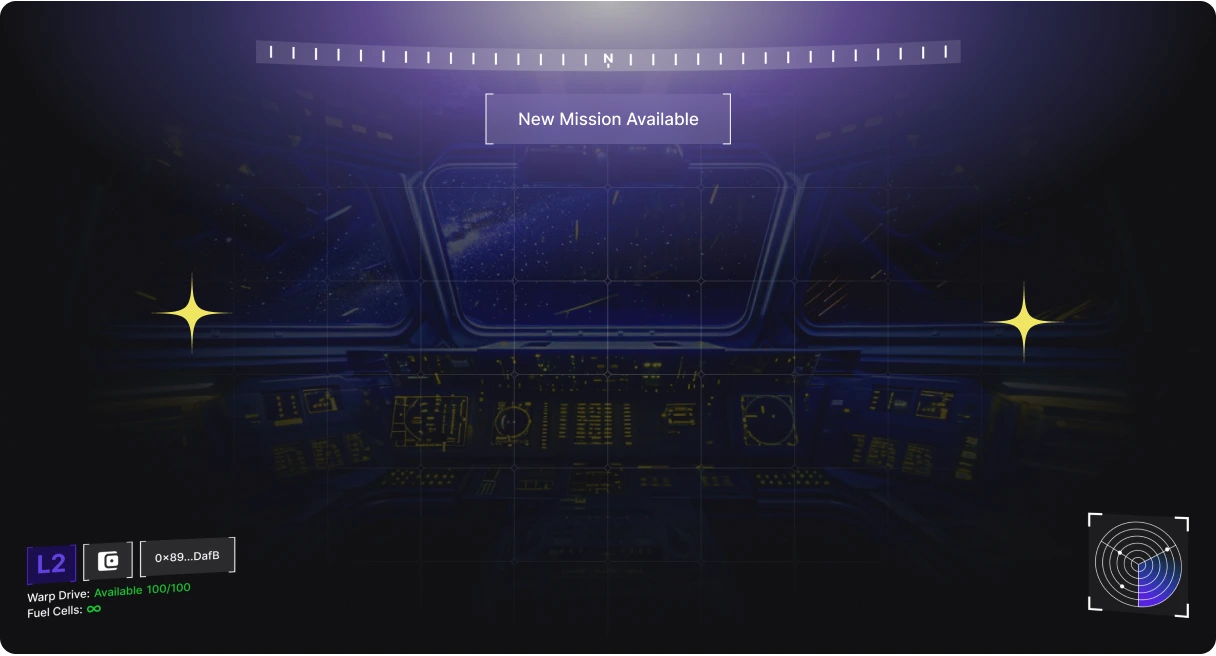
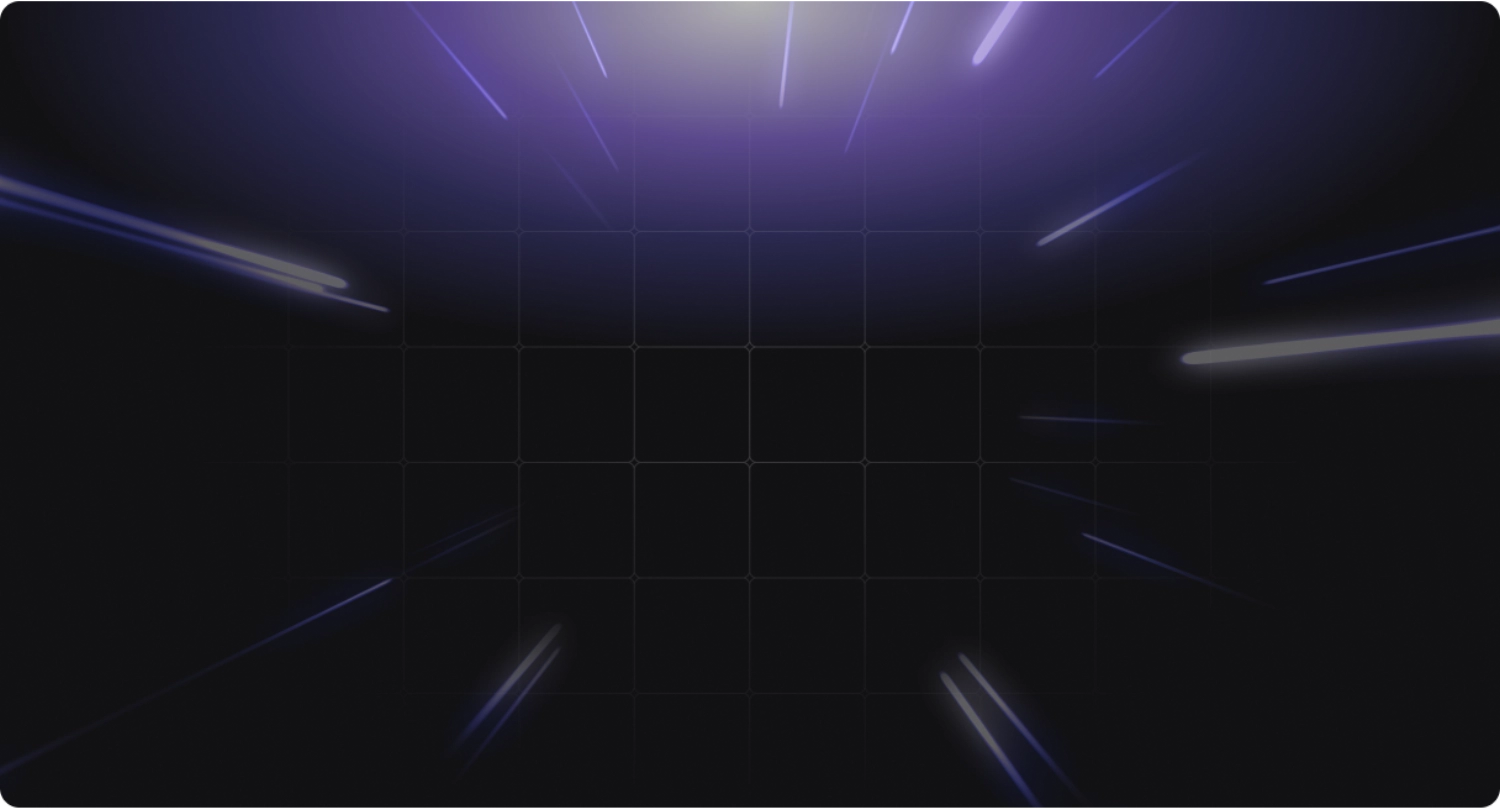
Updated star finders hero image and used separate svgs for inner components

diff --git a/src/modules/StarFinders/Hero.scss b/src/modules/StarFinders/Hero.scss
@@ -13,89 +13,125 @@
 
     .wrapper {
       background-color: #1d1c37;
-      background-image: url("/assets/star-finders/hero.webp"), radial-gradient(circle at top, #a7a5af 0%, #947df0 15%,  #1d1c37 50%);
+      background-image: url("/assets/star-finders/hero.webp"),
+        radial-gradient(circle at top, #a7a5af 0%, #947df0 15%, #1d1c37 50%);
       background-repeat: no-repeat;
       background-size: cover;
       background-position: center;
       border-radius: 16px;
       overflow: hidden;
       width: 100%;
-      aspect-ratio: 15 / 8;
+      // aspect-ratio: 15 / 8;
 
       .component {
-        padding: 210px 0 152px;
+        padding: 48px 32px 32px;
         margin: auto;
 
-        .content {
-          backdrop-filter: blur(10px);
-          padding: 78px 52px 56px;
-          width: calc(68% + 5px);
+        div.mission {
+          width: max-content;
           margin: auto;
+        }
+
+        .content {
+          margin: auto;
+          margin-top: 92px;
+          width: max-content;
+          position: relative;
           max-width: 100%;
-          border: 1px solid rgba(colors.$yellow-500, 0.07);
-          border-radius: 8px;
 
-          i.shield {
-            position: absolute;
-            top: 0;
-            left: 50%;
-            transform: translateY(-50%) translateX(-50%);
-          }
+          & > div {
+            backdrop-filter: blur(10px);
+            padding: 78px 52px 56px;
+            border: 1px solid rgba(colors.$yellow-500, 0.07);
+            border-radius: 8px;
+            padding: 78px 52px 56px;
+            position: relative;
+            z-index: 1;
 
-          h1 {
-            @include styles.h1;
-            color: colors.$base-white;
-            margin-bottom: 24px;
-            @include styles.font-work-sans;
-            text-align: center;
+            i.shield {
+              position: absolute;
+              top: 0;
+              left: 50%;
+              transform: translateY(-50%) translateX(-50%);
+            }
 
-            span {
-              color: colors.$yellow-400;
+            h1 {
+              @include styles.h1;
+              color: colors.$base-white;
+              margin-bottom: 24px;
+              @include styles.font-work-sans;
+              text-align: center;
+
+              span {
+                color: colors.$yellow-400;
+              }
+            }
+
+            p {
+              @include styles.display-xs;
+              @include weights.medium;
+              color: colors.$base-white;
+              text-align: center;
+            }
+
+            div.cta {
+              margin-top: 32px;
+              display: flex;
+              gap: 10px;
+              justify-content: center;
+
+              a {
+                padding: 6px 10px;
+                border-radius: 8px;
+
+                @include styles.text-sm;
+                @include weights.semibold;
+                color: colors.$base-white;
+
+                &.swap {
+                  background: colors.$blue-600;
+                }
+
+                &.add {
+                  border: 1px solid colors.$blue-600;
+                }
+              }
             }
           }
 
-          p {
-            @include styles.display-xs;
-            @include weights.medium;
-            color: colors.$base-white;
-            text-align: center;
-          }
+          i.star {
+            position: absolute;
+            top: 25%;
+            z-index: 0;
 
-          div.cta {
-            margin-top: 32px;
-            display: flex;
-            gap: 10px;
-            justify-content: center;
+            &.left {
+              left: 0;
+              transform: translateX(-50%);
+            }
 
-            a {
-              padding: 6px 10px;
-              border-radius: 8px;
-
-              @include styles.text-sm;
-              @include weights.semibold;
-              color: colors.$base-white;
-
-              &.swap {
-                background: colors.$blue-600;
-              }
-
-              &.add {
-                border: 1px solid colors.$blue-600;
-              }
+            &.right {
+              right: 0;
+              transform: translateX(50%);
             }
           }
         }
-      }
-    }
-  }
 
-  @media (max-width: 1199px) {
-    .inner {
-      .wrapper {
-        aspect-ratio: auto;
+        div.bottom {
+          margin-top: 42px;
 
-        .content {
-          width: max-content;
+          display: flex;
+          justify-content: space-between;
+          align-items: flex-end;
+
+          div.info {
+            perspective-origin: 150% 150%;
+            perspective: 650px;
+
+            img {
+              transform: rotateY(345deg);
+              transform-origin: left center;
+            }
+          }
         }
       }
     }
@@ -113,23 +149,23 @@
         border-radius: 0;
 
         .component {
-          padding: 250px 0 130px;
+          padding: 48px 16px 32px;
 
           .content {
-            padding: 78px 16px 56px;
-            width: calc(100% - 32px);
+            & > div {
+              padding: 58px 16px 16px;
 
-            h1 {
-              @include styles.h2;
-              // margin-bottom: 16px;
-            }
+              h1 {
+                @include styles.h2;
+              }
 
-            div.cta {
-              flex-direction: column;
+              div.cta {
+                flex-direction: column;
 
-              a {
-                width: 100%;
-                text-align: center;
+                a {
+                  width: 100%;
+                  text-align: center;
+                }
               }
             }
           }

diff --git a/src/elements/icons/paths.ts b/src/elements/icons/paths.ts
@@ -139,6 +139,7 @@ const paths: Path = {
   "banner-bar": import("./custom/banner-bar.svg?raw"),
   "banner-arrows": import("./custom/banner-arrows.svg?raw"),
   "title-shield": import("./custom/title-shield.svg?raw"),
+  "star": import("./custom/star.svg?raw"),
 };
 
 export { paths };
